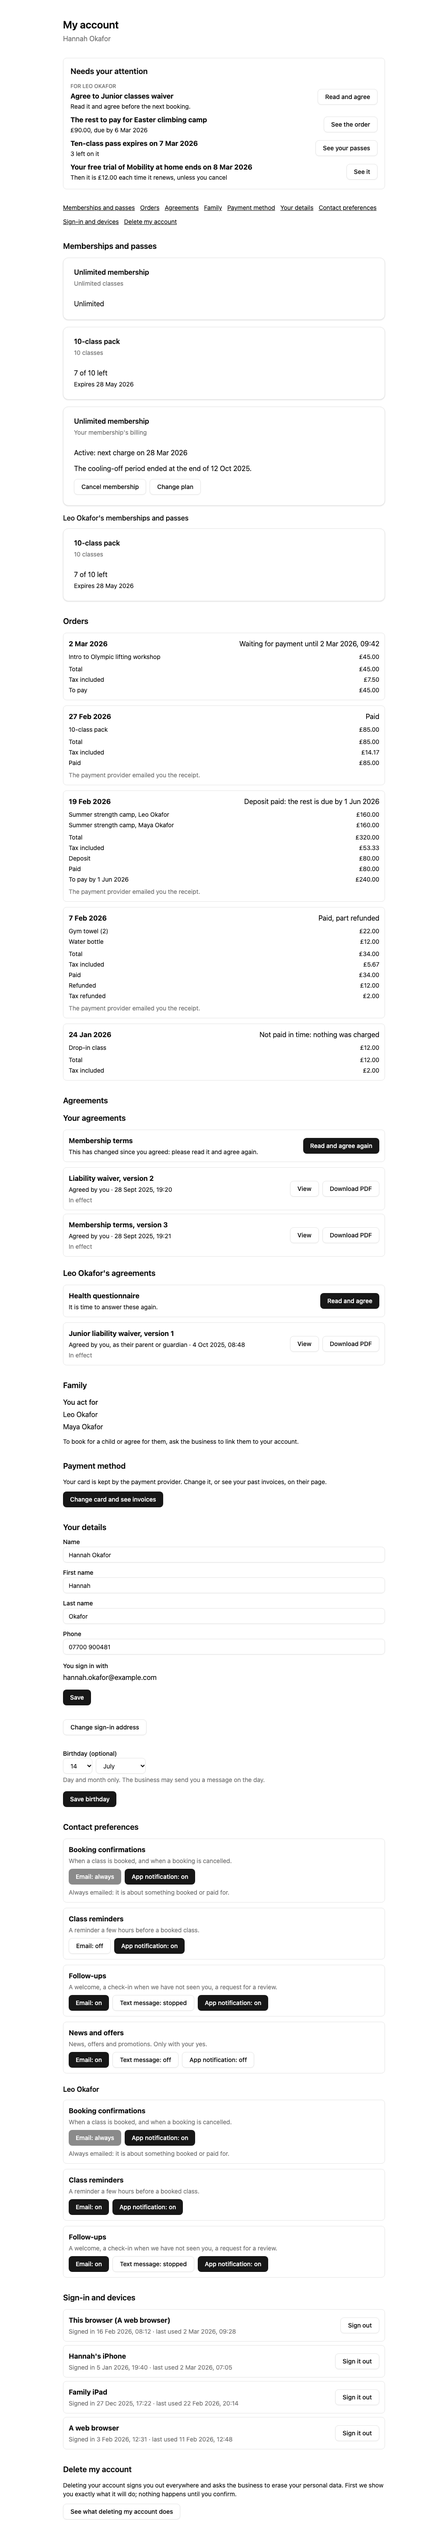
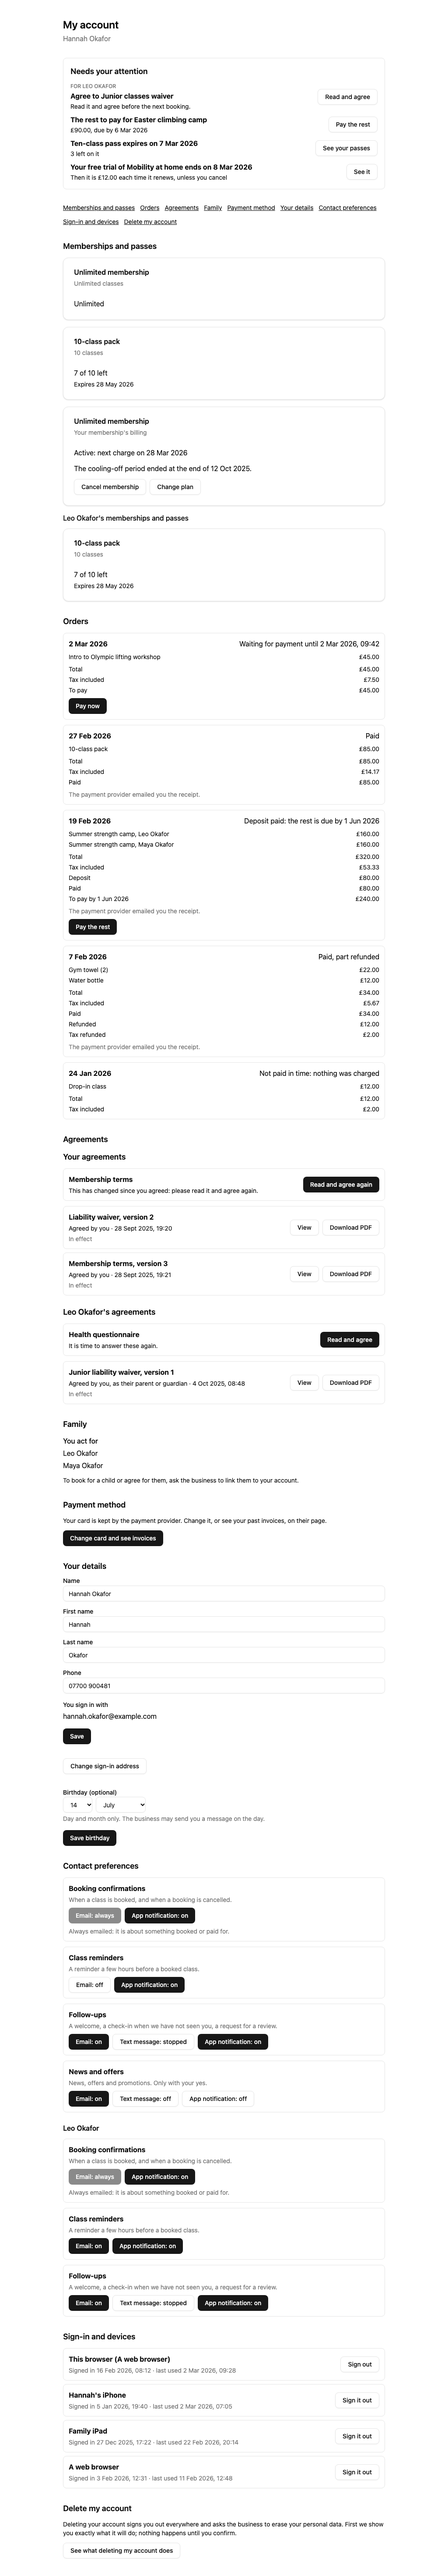
Docs site and block pictures regenerated

diff --git a/apps/docs/src/content/docs/reference/blocks/web-account.md b/apps/docs/src/content/docs/reference/blocks/web-account.md
@@ -4,9 +4,9 @@ description: "My account (stage 48), for the web: the signed-in customer's own a
 editUrl: false
 ---
 
-My account (stage 48), for the web: the signed-in customer's own area, one page of sections. The base sections come with it: Orders, Agreements, Family, Payment method (only for someone who pays a subscription), Your details, Contact preferences (stage 30) and Sign-in and devices. The packs' sections are passed in `sections`, each the pack's own block, and take their place by `order` (a pack's come first). It decides nothing: which sections this customer has, in what order, and whether Payment method shows is the host's answer (me.portal, ADR 0710); what each section shows is the host's answer to the section's own call. `cos add web-account` copies the packs' section blocks and writes `../account-sections.gen.ts`, which names them; the page passes them through `usePackSections`: import { ACCOUNT_SECTIONS } from "../blocks/account-sections.gen.ts"; const react = { useQuery, useMutation, useState, useEffect }; // at module level: made once const sections = usePackSections(ACCOUNT_SECTIONS, react, api, returnUrl); &lt;MyAccount account={account} agreements={agreements} sections={sections} … /&gt; so the page names no pack. "Needs your attention" sits at the top (me.attention, ADR 0711), each item leading to the section that deals with it. Changing the sign-in address (under Your details) and Delete my account need a recent sign-in: when the host asks for one, they sign the customer in again in place through `signIn` and carry on (ADR 0712).
+My account (stage 48), for the web: the signed-in customer's own area, one page of sections. The base sections come with it: Orders, Agreements, Family, Payment method (only for someone who pays a subscription), Your details, Contact preferences (stage 30) and Sign-in and devices. The packs' sections are passed in `sections`, each the pack's own block, and take their place by `order` (a pack's come first). It decides nothing: which sections this customer has, in what order, and whether Payment method shows is the host's answer (me.portal, ADR 0710); what each section shows is the host's answer to the section's own call. `cos add web-account` copies the packs' section blocks and writes `../account-sections.gen.ts`, which names them; the page passes them through `usePackSections`: import { ACCOUNT_SECTIONS } from "../blocks/account-sections.gen.ts"; const react = { useQuery, useMutation, useState, useEffect }; // at module level: made once const sections = usePackSections(ACCOUNT_SECTIONS, react, api, returnUrl); &lt;MyAccount account={account} agreements={agreements} sections={sections} … /&gt; so the page names no pack. "Needs your attention" sits at the top (me.attention, ADR 0711), each item leading to the section that deals with it (money owed on an order: the order's row in Orders, which pays it with order.checkout). A base section the host lists that this copy draws nothing for (added to the platform later) is left out (`portalSections`' `base`). Changing the sign-in address (under Your details) and Delete my account need a recent sign-in: when the host asks for one, they sign the customer in again in place through `signIn` and carry on (ADR 0712).
 
-<img class="cos-screen" src="/screens/web-account.png" alt="web-account, drawn with dummy data" width="1024" height="5790" loading="lazy" decoding="async" />
+<img class="cos-screen" src="/screens/web-account.png" alt="web-account, drawn with dummy data" width="1024" height="5878" loading="lazy" decoding="async" />
 
 Drawn with dummy data.
 
@@ -38,6 +38,7 @@ Through its hooks; the host decides what each caller may do.
 - [`my.list`](/reference/operations/my/#mylist)
 - [`subscription.list`](/reference/operations/subscription/#subscriptionlist)
 - [`subscription.portal`](/reference/operations/subscription/#subscriptionportal)
+- [`order.checkout`](/reference/operations/order/#ordercheckout)
 - [`me.agreements.due`](/reference/operations/me/#meagreementsdue)
 - [`me.agreements.list`](/reference/operations/me/#meagreementslist)
 - [`me.agreements.get`](/reference/operations/me/#meagreementsget)

diff --git a/apps/docs/src/content/docs/reference/blocks/native-account.md b/apps/docs/src/content/docs/reference/blocks/native-account.md
@@ -4,7 +4,7 @@ description: "My account (stage 48), for the mobile app's Account tab: the signe
 editUrl: false
 ---
 
-My account (stage 48), for the mobile app's Account tab: the signed-in customer's own area, a list of sections, each opening on its own screen. The base sections come with it: Orders, Agreements, Family, Payment method (only for someone who pays a subscription), Your details, Contact preferences (stage 30) and Sign-in and devices. The packs' sections are passed in `sections`, each the pack's own screen, and take their place by `order` (a pack's come first). Money in the app is the website's (ADR 0490, ADR 0714): the app shows orders and subscriptions, and the card, cancelling and changing plan open the business's website account page in the browser (`websiteUrl`). No block here calls a billing operation. Which sections this customer has, in what order, and whether Payment method shows is the host's answer (me.portal, ADR 0710). `cos add native-account` copies the packs' section blocks and writes `../account-sections.gen.ts`, which names them; the tab passes them through `usePackSections(ACCOUNT_SECTIONS, react, api)`, so it names no pack. A pack's screen is given `onManage`, which opens the website account page. "Needs your attention" sits at the top (me.attention, ADR 0711), each item opening the section that deals with it. Changing the sign-in address (under Your details) and Delete my account work in the app; when the host asks for a recent sign-in, they sign the customer in again in place through `signIn` (ADR 0712).
+My account (stage 48), for the mobile app's Account tab: the signed-in customer's own area, a list of sections, each opening on its own screen. The base sections come with it: Orders, Agreements, Family, Payment method (only for someone who pays a subscription), Your details, Contact preferences (stage 30) and Sign-in and devices. The packs' sections are passed in `sections`, each the pack's own screen, and take their place by `order` (a pack's come first). Money in the app is the website's (ADR 0490, ADR 0714): the app shows orders and subscriptions, and the card, cancelling and changing plan open the business's website account page in the browser (`websiteUrl`). No block here calls a billing operation. Which sections this customer has, in what order, and whether Payment method shows is the host's answer (me.portal, ADR 0710). `cos add native-account` copies the packs' section blocks and writes `../account-sections.gen.ts`, which names them; the tab passes them through `usePackSections(ACCOUNT_SECTIONS, react, api)`, so it names no pack. A pack's screen is given `onManage`, which opens the website account page. "Needs your attention" sits at the top (me.attention, ADR 0711), each item opening the section that deals with it. Changing the sign-in address (under Your details) and Delete my account work in the app; when the host asks for a recent sign-in, they sign the customer in again in place through `signIn` (ADR 0712). Once the account is deleted, the shell's `endSession` (the app's `session.signOut`) forgets this device's tokens at once; the app's `onDeleted` then goes back to sign-in. Money owed on an order opens the website, as the card does. A base section the host lists that this copy draws nothing for (added to the platform later) is left out (`portalSections`' `base`).
 
 <img class="cos-screen cos-screen-native" src="/screens/native-account.png" alt="native-account, drawn with dummy data" width="390" height="844" loading="lazy" decoding="async" />
 

diff --git a/apps/docs/src/content/docs/guides/client-apps-and-blocks.md b/apps/docs/src/content/docs/guides/client-apps-and-blocks.md
@@ -61,11 +61,24 @@ The shell takes `signIn`, the app's own sign-in by code (`requestCode`, `confirm
 sign-in address and deleting the account need a sign-in within the last 15 minutes; when the host
 answers `sign_in_again`, the block signs the customer in again in place and carries on. Deleting
 first shows the host's preview in full, and confirms only that preview once the customer types
-DELETE; `onDeleted` is where the app goes after. Memberships and Courses show their subscriptions
-through one subscriptions part; the card is Payment method's alone. In the mobile app the shell
-gives a pack's screen `onManage`: money opens the business's website account page
-([ADR 0714](https://github.com/timoconnellaus/composable-os/blob/main/docs/adr/0714-the-app-shows-money-and-opens-the-website.md),
+DELETE. Once the host has deleted the account, the hooks forget everything the app's query cache
+holds (make them with `createAccountHooks({ useQuery, useMutation, useQueryClient }, api)`), and
+the native shell's `endSession` (the app's `session.signOut`) forgets the device's tokens at once;
+`onDeleted` is where the app goes after (the web: its home page; the app: its sign-in). Memberships
+and Courses show their subscriptions through one subscriptions part; the card is Payment method's
+alone. The rest of an order to pay leads to that order in Orders: on the web its row pays it on the
+provider's page (`order.checkout`, coming back to the shell's `returnUrl`). In the mobile app the
+shell gives a pack's screen `onManage`: money, an order to pay included, opens the business's
+website account page ([ADR 0714](https://github.com/timoconnellaus/composable-os/blob/main/docs/adr/0714-the-app-shows-money-and-opens-the-website.md),
 [ADR 0715](https://github.com/timoconnellaus/composable-os/blob/main/docs/adr/0715-the-account-blocks-signing-in-again-in-place-and-one-subscriptions-part.md)).
+A `form_to_fill` item opens through the shell's `onFillForm(linkId)`: an app with Forms opens
+Forms' `LinkedFormBlock` (`LinkedFormScreen` in the app) with that id.
+
+The template mobile app's Account tab is the native shell already: `cos create --with-mobile`
+copies it with its sections. After `cos upgrade`, a pack's section whose copied block is older than
+the release's (it lacks the export the section now names) is left out of the wiring, so the app
+still compiles, and named with `cos diff <block>`; the upgrade also lists every copied block that
+changed upstream.
 
 ## Contact preferences and the one-tap stop
 

diff --git a/apps/docs/src/content/docs/reference/blocks/web-account-delete.md b/apps/docs/src/content/docs/reference/blocks/web-account-delete.md
@@ -4,7 +4,7 @@ description: "Delete my account (stage 48), for the web."
 editUrl: false
 ---
 
-Delete my account (stage 48), for the web. Two steps, both the host's (me.deleteAccount, ADR 0713): first the host says what deleting will do, and the block shows all of it (each subscription they pay and how it ends, nothing refunded; their unpaid orders cancelled; what stays for the business to decide; by when their data is erased); then, deliberately, they type DELETE and confirm, and the host does exactly what it showed (the preview's `expect`). A preview that changed meanwhile is the host's conflict: the block asks for it again and shows the new one. Nothing is deleted by the block's own logic: without a preview there is nothing to confirm (`deleteConfirmInput`). The host keeps it to a sign-in within the last 15 minutes, the preview too. When it says `sign_in_again`, the block signs the customer in again in place (`SignInAgain`) and carries on.
+Delete my account (stage 48), for the web. Two steps, both the host's (me.deleteAccount, ADR 0713): first the host says what deleting will do, and the block shows all of it (each subscription they pay and how it ends, nothing refunded; their unpaid orders cancelled; what stays for the business to decide; by when their data is erased); then, deliberately, they type DELETE and confirm, and the host does exactly what it showed (the preview's `expect`). A preview that changed meanwhile is the host's conflict: the block asks for it again and shows the new one. Nothing is deleted by the block's own logic: without a preview there is nothing to confirm (`deleteConfirmInput`). The host keeps it to a sign-in within the last 15 minutes, the preview too. When it says `sign_in_again`, the block signs the customer in again in place (`SignInAgain`) and carries on. Once the host has deleted the account it has also ended every session, this browser's cookie with them. At once, `useDeleteAccount` forgets every query in the app's cache (when the app made the hooks with its `useQueryClient`: `createAccountHooks({ useQuery, useMutation, useQueryClient }, api)`), so nothing of the account stays in memory. What the app must still do, in `onDeleted`: leave the page (the template goes to its home page with a full load).
 
 <img class="cos-screen" src="/screens/web-account-delete.png" alt="web-account-delete, drawn with dummy data" width="720" height="442" loading="lazy" decoding="async" />
 

diff --git a/apps/docs/src/content/docs/reference/blocks/native-account-delete.md b/apps/docs/src/content/docs/reference/blocks/native-account-delete.md
@@ -4,7 +4,7 @@ description: "Delete my account (stage 48), for the mobile app: the same two ste
 editUrl: false
 ---
 
-Delete my account (stage 48), for the mobile app: the same two steps as the web's (`web-account-delete`), in the app (ADR 0714: deleting is not money, so it works here). First the host says what deleting will do and the block shows all of it; then, deliberately, they type DELETE and confirm, and the host does exactly what it showed (the preview's `expect`). A preview that changed meanwhile is shown again. Nothing is deleted by the block's own logic: without a preview there is nothing to confirm (`deleteConfirmInput`). The amounts shown are the subscriptions that end, as the host gave them; nothing here takes a payment. When the host says `sign_in_again`, the block signs the customer in again in place and asks for the preview again.
+Delete my account (stage 48), for the mobile app: the same two steps as the web's (`web-account-delete`), in the app (ADR 0714: deleting is not money, so it works here). First the host says what deleting will do and the block shows all of it; then, deliberately, they type DELETE and confirm, and the host does exactly what it showed (the preview's `expect`). A preview that changed meanwhile is shown again. Nothing is deleted by the block's own logic: without a preview there is nothing to confirm (`deleteConfirmInput`). The amounts shown are the subscriptions that end, as the host gave them; nothing here takes a payment. When the host says `sign_in_again`, the block signs the customer in again in place and asks for the preview again. Once the host has deleted the account (and ended every session), the block calls `endSession` at once (the app's `session.signOut`: it forgets the tokens in the secure store), and the hooks forget the app's query cache when made with its `useQueryClient`. What the app must still do, in `onDeleted`: go back to its sign-in screen (the device is already signed out).
 
 <img class="cos-screen cos-screen-native" src="/screens/native-account-delete.png" alt="native-account-delete, drawn with dummy data" width="390" height="844" loading="lazy" decoding="async" />
 

diff --git a/apps/docs/src/content/docs/reference/blocks/web-account-orders.md b/apps/docs/src/content/docs/reference/blocks/web-account-orders.md
@@ -4,7 +4,7 @@ description: "Orders (stage 48), for the web: the one list of the signed-in cust
 editUrl: false
 ---
 
-Orders (stage 48), for the web: the one list of the signed-in customer's orders, newest first, each with its state, its lines, tax, deposit, what was paid, what is still to pay and by when, and what was refunded. Every figure is the host's, in the currency's minor unit, shown in the order's currency (my.list on `order` and `orderLine`, through the seam: their own orders only, never a child's). A paid order's receipt is the payment provider's email until the host has a receipt document (stage 35): then `receiptUrl` is set and the row links to it.
+Orders (stage 48), for the web: the one list of the signed-in customer's orders, newest first, each with its state, its lines, tax, deposit, what was paid, what is still to pay and by when, and what was refunded. Every figure is the host's, in the currency's minor unit, shown in the order's currency (my.list on `order` and `orderLine`, through the seam: their own orders only, never a child's). A paid order's receipt is the payment provider's email until the host has a receipt document (stage 35): then `receiptUrl` is set and the row links to it. An order waiting for payment, or with the rest of a deposit to pay, has a pay button (with `useCheckoutOrder` and `returnUrl` given): it asks the host for the provider's page for this order (order.checkout, their own order only) and goes there. The host says what is charged, and only the provider's confirmation, never coming back, marks it paid. Each row's id is `account-order-<id>`, so Needs your attention opens at it.
 
 <img class="cos-screen" src="/screens/web-account-orders.png" alt="web-account-orders, drawn with dummy data" width="720" height="1070" loading="lazy" decoding="async" />
 
@@ -24,5 +24,6 @@ Drawn with dummy data.
 Through its hooks; the host decides what each caller may do.
 
 - [`my.list`](/reference/operations/my/#mylist)
+- [`order.checkout`](/reference/operations/order/#ordercheckout)
 
 Source: [blocks/web-account-orders](https://github.com/timoconnellaus/composable-os/tree/main/blocks/web-account-orders).

diff --git a/apps/docs/src/content/docs/reference/blocks/web-account-attention.md b/apps/docs/src/content/docs/reference/blocks/web-account-attention.md
@@ -4,7 +4,7 @@ description: "Needs your attention (stage 48), for the web: the top of My accoun
 editUrl: false
 ---
 
-Needs your attention (stage 48), for the web: the top of My account. What needs the signed-in customer, or a child they act for, soonest first: a document to agree to, a card payment that failed, a payment their bank waits on, the rest of a deposit, an order they started paying for, a pass about to run out or used up, a free trial about to end, a form they were asked to fill in. Each says whose it is when it is a child's, and leads to where it is dealt with: a section of the page (`onSection`), the provider's page for a payment to confirm, or the form (`onFillForm`, where the app has the form's page). An item goes once the host says its cause is fixed. What needs attention is the host's answer (me.attention, ADR 0711): nothing is worked out here, and where an item leads is a lookup among the sections the host lists.
+Needs your attention (stage 48), for the web: the top of My account. What needs the signed-in customer, or a child they act for, soonest first: a document to agree to, a card payment that failed, a payment their bank waits on, the rest of a deposit, an order they started paying for, a pass about to run out or used up, a free trial about to end, a form they were asked to fill in. Each says whose it is when it is a child's, and leads to where it is dealt with: a section of the page (`onSection`; money owed on an order, the order's row in Orders, where it is paid), the provider's page for a payment to confirm (only an `https:` address, `followableUrl`), or the form (`onFillForm`, where the app has the form's page). An item goes once the host says its cause is fixed. What needs attention is the host's answer (me.attention, ADR 0711): nothing is worked out here, and where an item leads is a lookup among the sections the host lists.
 
 <img class="cos-screen" src="/screens/web-account-attention.png" alt="web-account-attention, drawn with dummy data" width="720" height="348" loading="lazy" decoding="async" />
 

diff --git a/apps/docs/src/content/docs/reference/blocks/native-account-attention.md b/apps/docs/src/content/docs/reference/blocks/native-account-attention.md
@@ -4,7 +4,7 @@ description: "Needs your attention (stage 48), for the mobile app: the top of th
 editUrl: false
 ---
 
-Needs your attention (stage 48), for the mobile app: the top of the Account tab. What needs the signed-in customer, or a child they act for, soonest first, each saying whose it is when it is a child's, and opening where it is dealt with: a section of My account (`onSection`), the form they were asked to fill in (`onFillForm`, where the app has the form's screen), or, for a payment their bank waits on, the business's website (`onManage`): money in the app opens the website, never the payment provider's page (ADR 0714). What needs attention is the host's answer (me.attention, ADR 0711); where an item leads is a lookup among the host's sections.
+Needs your attention (stage 48), for the mobile app: the top of the Account tab. What needs the signed-in customer, or a child they act for, soonest first, each saying whose it is when it is a child's, and opening where it is dealt with: a section of My account (`onSection`), the form they were asked to fill in (`onFillForm`, where the app has the form's screen), or, for a payment their bank waits on and for the rest of an order to pay, the business's website (`onManage`): money in the app opens the website, never the payment provider's page (ADR 0714). What needs attention is the host's answer (me.attention, ADR 0711); where an item leads is a lookup among the host's sections.
 
 <img class="cos-screen cos-screen-native" src="/screens/native-account-attention.png" alt="native-account-attention, drawn with dummy data" width="390" height="844" loading="lazy" decoding="async" />
 

diff --git a/apps/docs/src/content/docs/reference/blocks/native-account-orders.md b/apps/docs/src/content/docs/reference/blocks/native-account-orders.md
@@ -4,7 +4,7 @@ description: "Orders (stage 48), for the mobile app: the signed-in customer's or
 editUrl: false
 ---
 
-Orders (stage 48), for the mobile app: the signed-in customer's orders, newest first, each with its state, its lines, tax, deposit, what was paid, what is still to pay and by when, and what was refunded. Every figure is the host's, shown in the order's currency (my.list on `order` and `orderLine`: their own orders only, never a child's). It shows money and pays nothing: paying a balance is on the website (ADR 0714). A paid order's receipt is the payment provider's email until the host has a receipt document (stage 35).
+Orders (stage 48), for the mobile app: the signed-in customer's orders, newest first, each with its state, its lines, tax, deposit, what was paid, what is still to pay and by when, and what was refunded. Every figure is the host's, shown in the order's currency (my.list on `order` and `orderLine`: their own orders only, never a child's). It shows money and pays nothing: an order still to pay says "Pay on the website", which opens the business's website account page (`onManage`), where it is paid (ADR 0714). A paid order's receipt is the payment provider's email until the host has a receipt document (stage 35).
 
 <img class="cos-screen cos-screen-native" src="/screens/native-account-orders.png" alt="native-account-orders, drawn with dummy data" width="390" height="844" loading="lazy" decoding="async" />
 

diff --git a/apps/docs/src/content/docs/reference/glossary.md b/apps/docs/src/content/docs/reference/glossary.md
@@ -1479,7 +1479,8 @@ subscriptions, allowances and personal links: a document to agree to, a card pay
 a payment to confirm with the bank, a deposit's balance, an unfinished held order, a pass expiring
 or used up, a free trial ending, a form to fill in. How far ahead it looks is
 `account.attentionDays` (default 7). The blocks (`*-account-attention`) say whose each item is and
-lead to the section that deals with it.
+lead to the section that deals with it (money owed on an order: that order in Orders, paid there
+on the web and on the website from the app).
 _Avoid_: notifications, alerts, to-do
 
 ### Erase request
